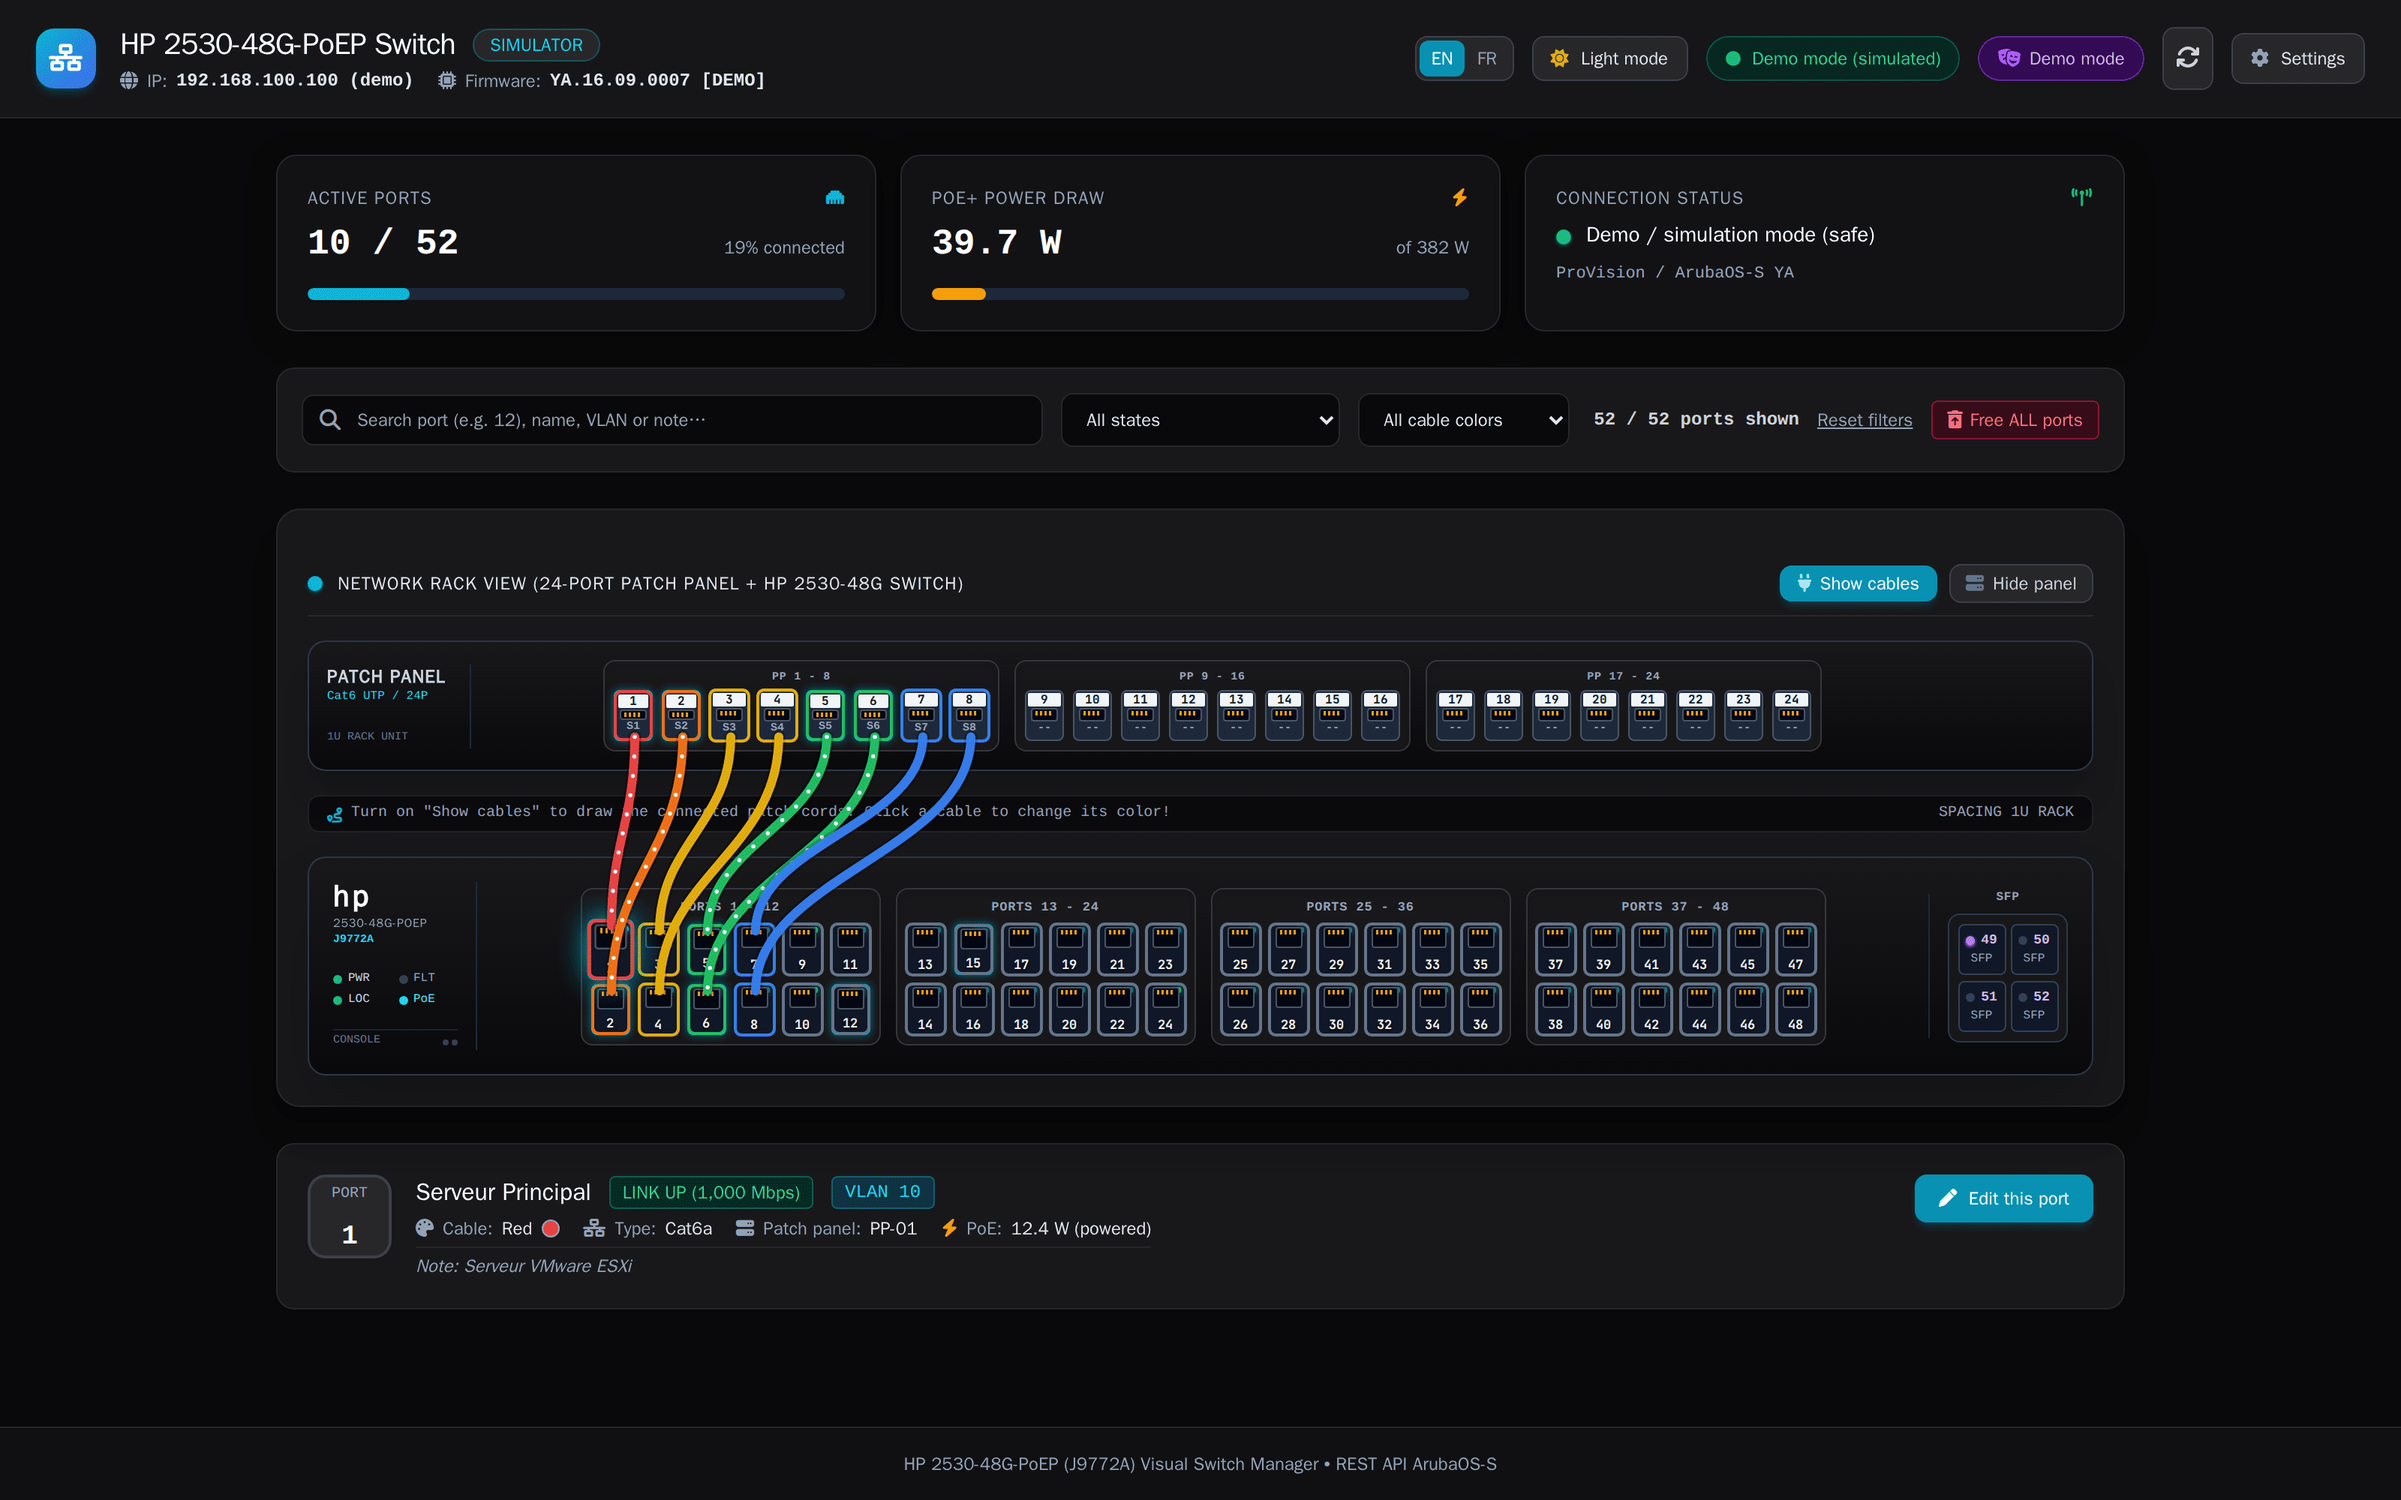
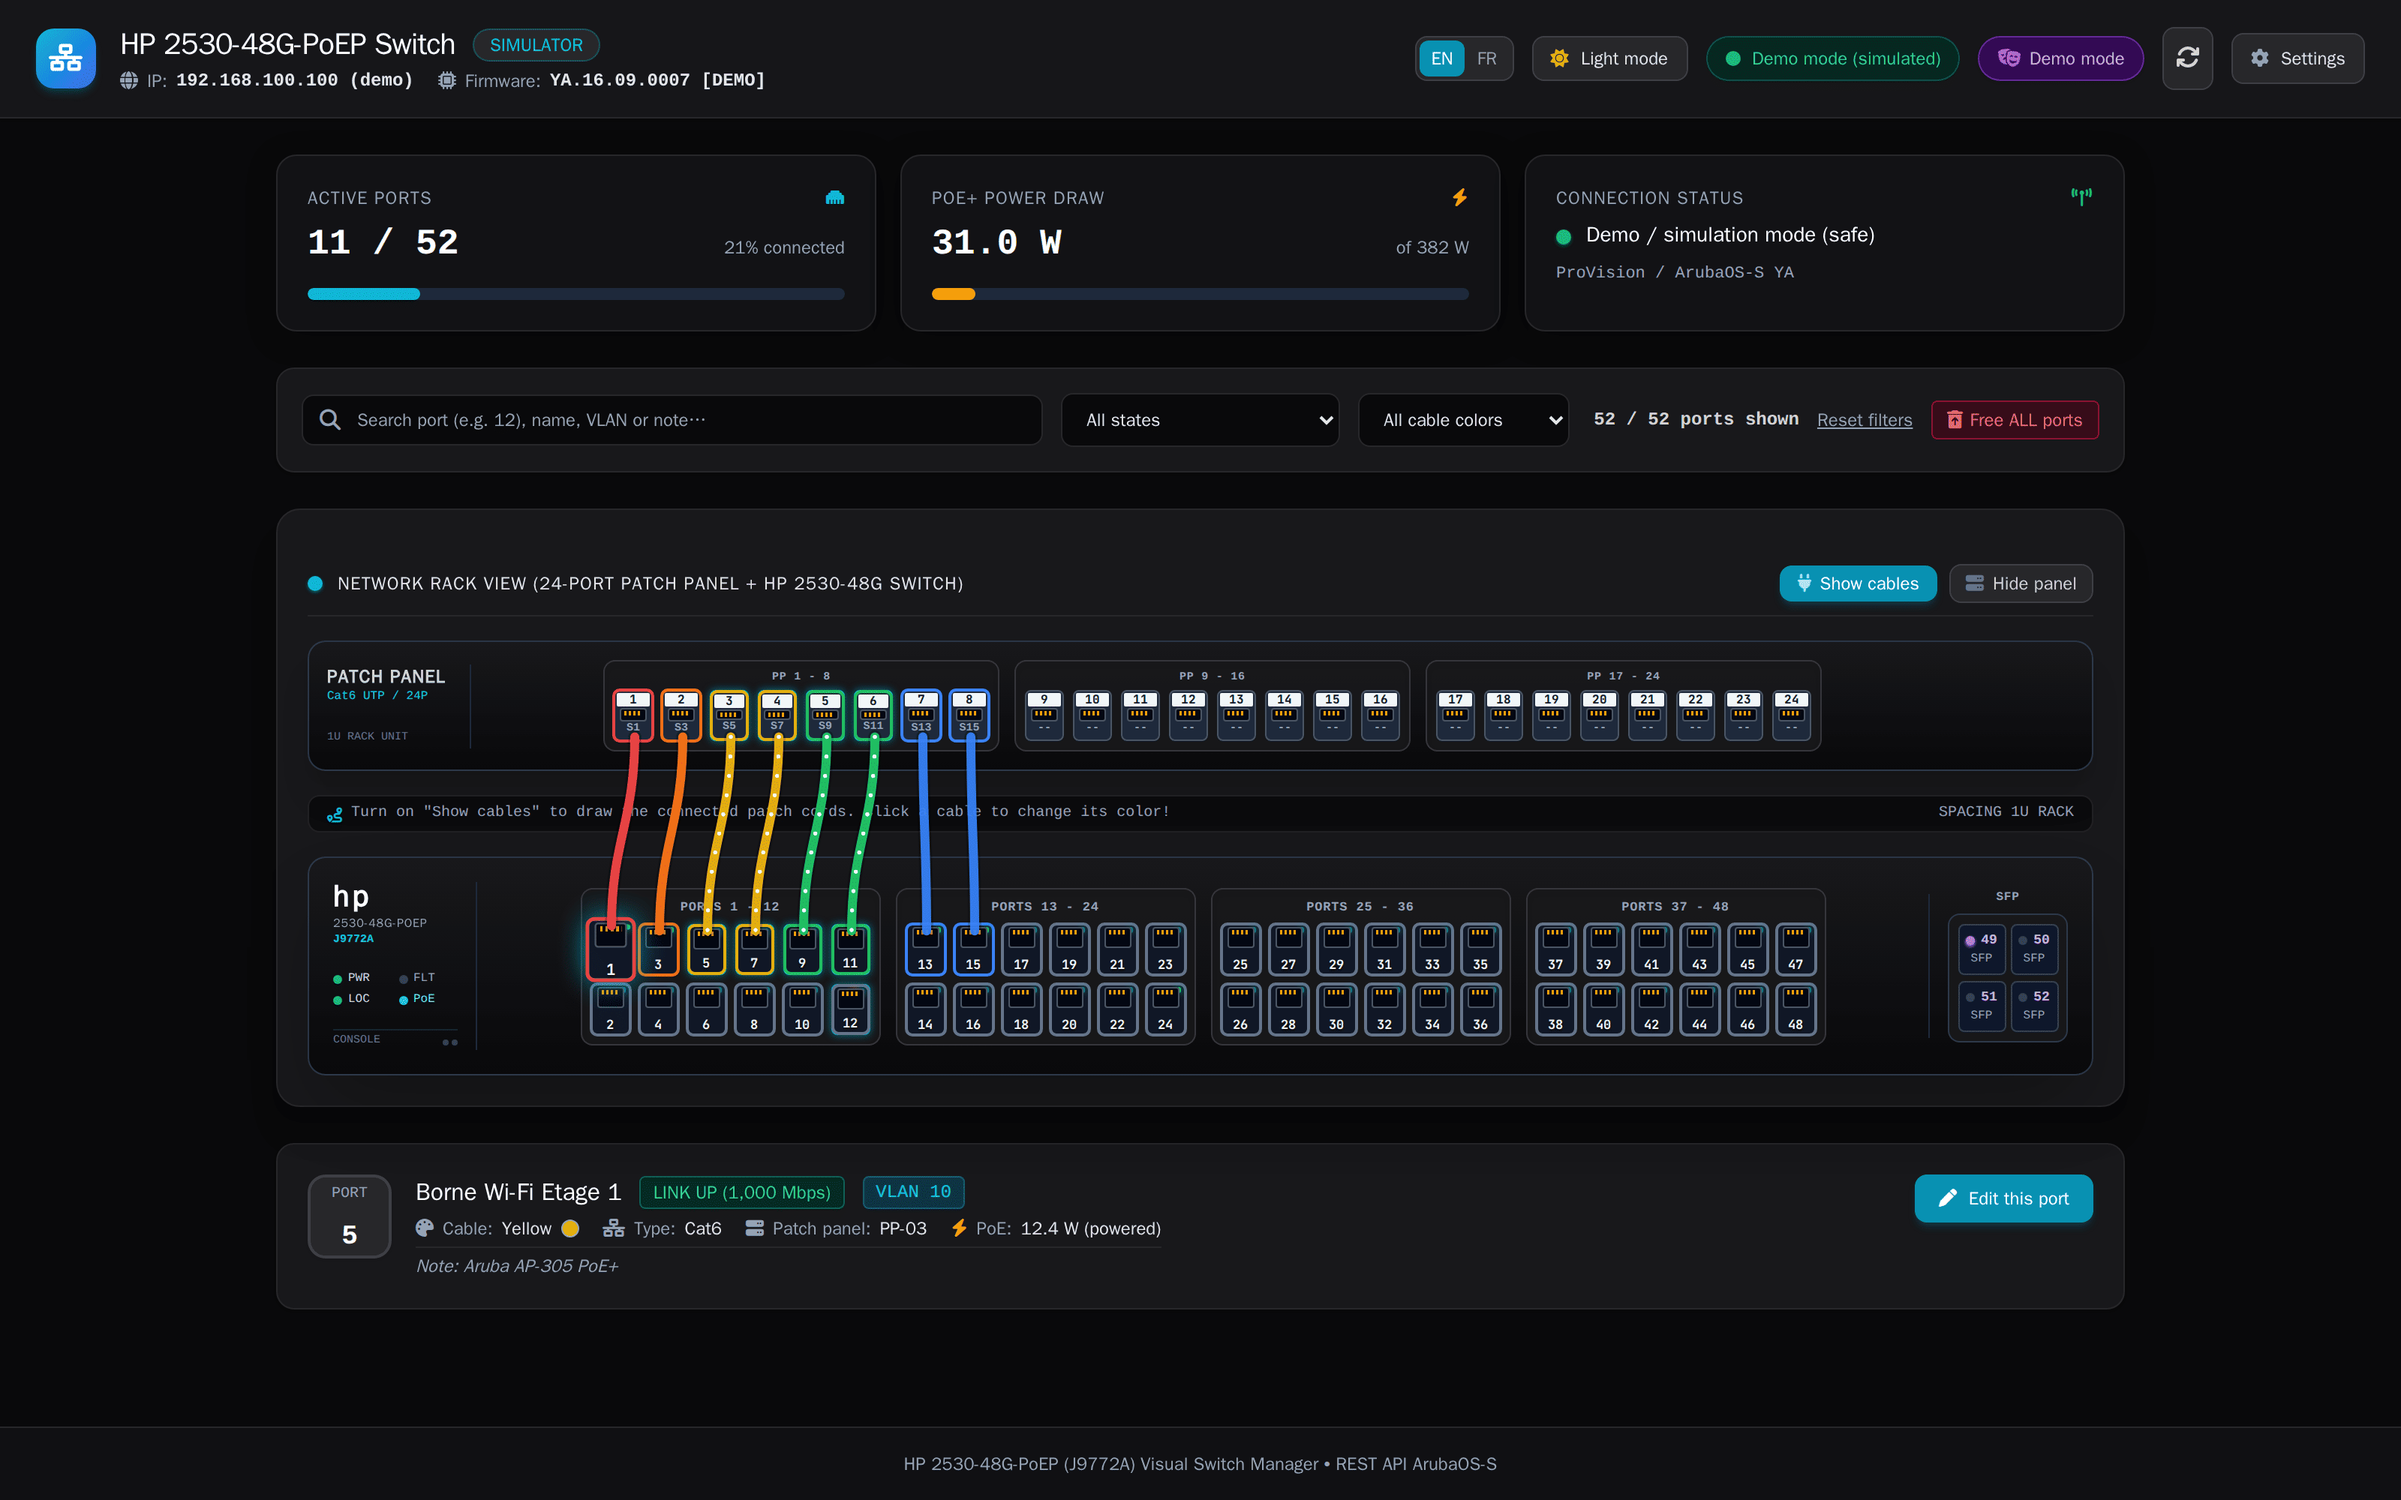
Tidy the demo cabling and retake the screenshots
Demo patch panel jacks PP-01..PP-08 now go to the top row (odd ports
1-15) in order, like a real rack, instead of ports 1-8 across both rows,
which crossed every cable. The simulated switch states follow the same
ports. Only fresh demo databases get the new seed.

Changed region(s): [[0.2188, 0.434, 0.4375, 0.713], [0.1875, 0.775, 0.4688, 0.868], [0.0, 0.031, 0.0312, 0.062]]

diff --git a/app/switch_api.py b/app/switch_api.py
@@ -44,14 +44,15 @@ class ArubaSwitchClient:
     def _init_demo_state(self):
         """Initialize a realistic simulated switch state for demo/dev mode."""
         preset_active = {
-            1: {"link": "UP", "speed": 1000, "poe_enabled": True, "poe_delivering": True, "watts": 12.4, "vlan": 10, "name": "AP-Wi-Fi-Salon"},
-            2: {"link": "UP", "speed": 1000, "poe_enabled": True, "poe_delivering": True, "watts": 6.8, "vlan": 10, "name": "AP-Wi-Fi-Etage"},
-            5: {"link": "UP", "speed": 100,  "poe_enabled": True, "poe_delivering": True, "watts": 4.2, "vlan": 20, "name": "Cam-Entree"},
-            6: {"link": "UP", "speed": 100,  "poe_enabled": True, "poe_delivering": True, "watts": 4.5, "vlan": 20, "name": "Cam-Jardin"},
-            9: {"link": "UP", "speed": 1000, "poe_enabled": False, "poe_delivering": False, "watts": 0.0, "vlan": 1, "name": "Synology-NAS-Eth1"},
-            10: {"link": "UP", "speed": 1000, "poe_enabled": False, "poe_delivering": False, "watts": 0.0, "vlan": 1, "name": "PC-Bureau"},
+            1: {"link": "UP", "speed": 1000, "poe_enabled": False, "poe_delivering": False, "watts": 0.0, "vlan": 1, "name": "ESXi-01"},
+            3: {"link": "UP", "speed": 1000, "poe_enabled": False, "poe_delivering": False, "watts": 0.0, "vlan": 1, "name": "PfSense-LAN"},
+            5: {"link": "UP", "speed": 1000, "poe_enabled": True, "poe_delivering": True, "watts": 12.4, "vlan": 10, "name": "AP-Wi-Fi-Etage"},
+            7: {"link": "UP", "speed": 1000, "poe_enabled": True, "poe_delivering": True, "watts": 6.8, "vlan": 10, "name": "AP-Wi-Fi-RDC"},
+            9: {"link": "UP", "speed": 100,  "poe_enabled": True, "poe_delivering": True, "watts": 4.2, "vlan": 20, "name": "Cam-Parking"},
+            11: {"link": "UP", "speed": 100,  "poe_enabled": True, "poe_delivering": True, "watts": 4.5, "vlan": 20, "name": "Cam-Entree"},
             12: {"link": "UP", "speed": 100, "poe_enabled": True, "poe_delivering": True, "watts": 3.1, "vlan": 30, "name": "Tel-VoIP"},
-            15: {"link": "UP", "speed": 1000, "poe_enabled": True, "poe_delivering": True, "watts": 8.7, "vlan": 10, "name": "AP-Wi-Fi-Garage"},
+            13: {"link": "UP", "speed": 1000, "poe_enabled": False, "poe_delivering": False, "watts": 0.0, "vlan": 1, "name": "Synology-LACP-1"},
+            15: {"link": "UP", "speed": 1000, "poe_enabled": False, "poe_delivering": False, "watts": 0.0, "vlan": 1, "name": "Synology-LACP-2"},
             24: {"link": "UP", "speed": 1000, "poe_enabled": False, "poe_delivering": False, "watts": 0.0, "vlan": 1, "name": "Imprimante-Bureau"},
             49: {"link": "UP", "speed": 10000, "poe_enabled": False, "poe_delivering": False, "watts": 0.0, "vlan": 1, "name": "SFP-Uplink-10G"}
         }

diff --git a/app/database.py b/app/database.py
@@ -41,14 +41,15 @@ def seed_default_ports(cursor, is_demo: bool = False):
     now = datetime.utcnow().isoformat()
     if is_demo:
         sample_colors = {
+            # Patch panel jacks go to the top row (odd ports) in order, so the demo cables stay tidy
             1: ("Serveur Principal", "#ef4444", "Cat6a", "PP-01", "server", "Serveur VMware ESXi"),
-            2: ("Passerelle Routeur", "#f97316", "Cat6a", "PP-02", "router", "Routeur Firewall PfSense"),
-            3: ("Borne Wi-Fi Etage 1", "#eab308", "Cat6", "PP-03", "ap", "Aruba AP-305 PoE+"),
-            4: ("Borne Wi-Fi RDC", "#eab308", "Cat6", "PP-04", "ap", "Aruba AP-305 PoE+"),
-            5: ("Caméra Parking", "#22c55e", "Cat6", "PP-05", "camera", "Caméra Hikvision PoE"),
-            6: ("Caméra Entrée", "#22c55e", "Cat6", "PP-06", "camera", "Caméra Hikvision PoE"),
-            7: ("NAS Synology LACP 1", "#3b82f6", "Cat6a", "PP-07", "server", "Synology DS1821+ Port 1"),
-            8: ("NAS Synology LACP 2", "#3b82f6", "Cat6a", "PP-08", "server", "Synology DS1821+ Port 2"),
+            3: ("Passerelle Routeur", "#f97316", "Cat6a", "PP-02", "router", "Routeur Firewall PfSense"),
+            5: ("Borne Wi-Fi Etage 1", "#eab308", "Cat6", "PP-03", "ap", "Aruba AP-305 PoE+"),
+            7: ("Borne Wi-Fi RDC", "#eab308", "Cat6", "PP-04", "ap", "Aruba AP-305 PoE+"),
+            9: ("Caméra Parking", "#22c55e", "Cat6", "PP-05", "camera", "Caméra Hikvision PoE"),
+            11: ("Caméra Entrée", "#22c55e", "Cat6", "PP-06", "camera", "Caméra Hikvision PoE"),
+            13: ("NAS Synology LACP 1", "#3b82f6", "Cat6a", "PP-07", "server", "Synology DS1821+ Port 1"),
+            15: ("NAS Synology LACP 2", "#3b82f6", "Cat6a", "PP-08", "server", "Synology DS1821+ Port 2"),
             49: ("Uplink SFP 1G Fibre", "#a855f7", "Fiber MM", "OPT-01", "switch", "Lien Switch Coeur (SFP 1)"),
         }
     else:
